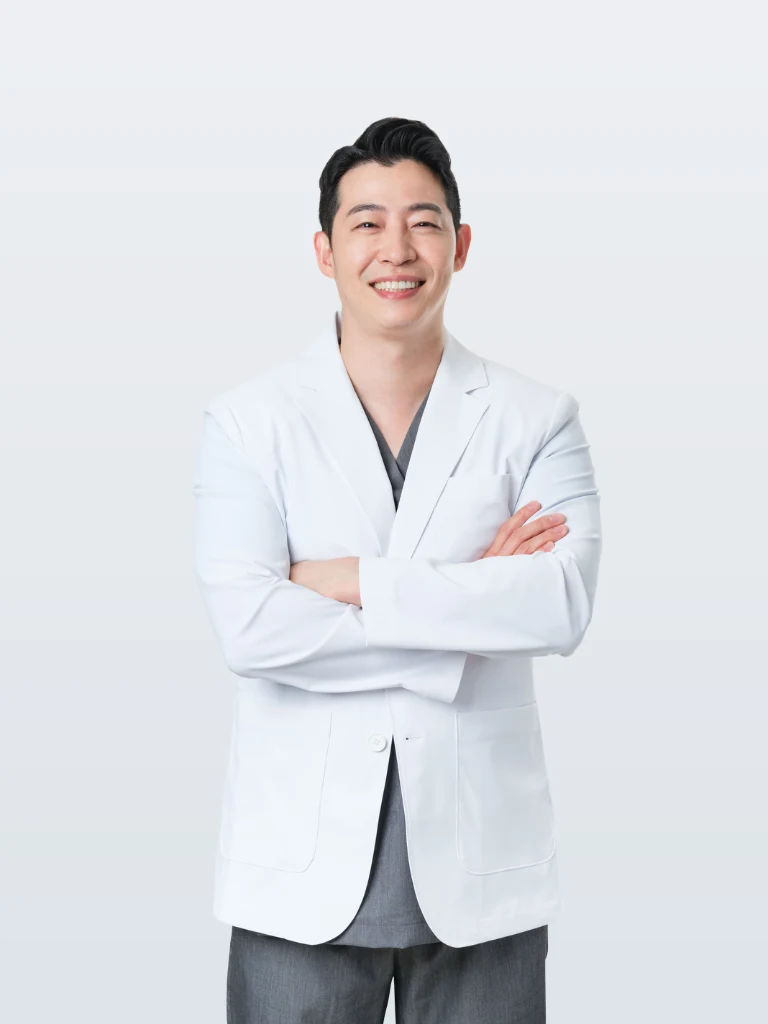
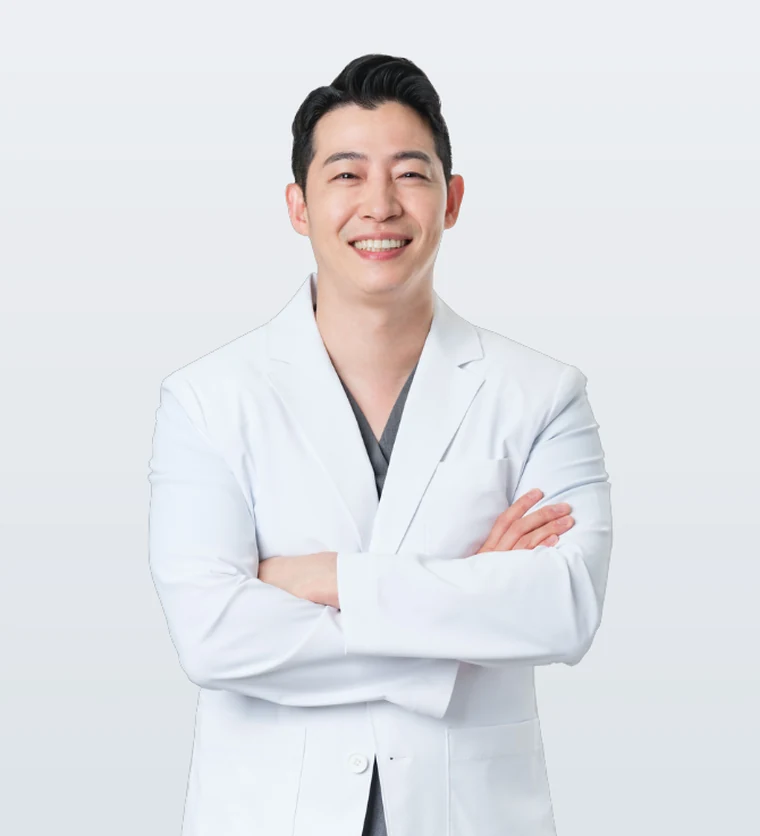
fix(doctors): 권민수 프로필 상반신 크롭으로 3인 사진 스케일 통일(aspect 4/4.4 매칭), 캐시 v=20260621q

Changed region(s): [[0.2724, 0.0622, 0.8171, 1.0], [0.575, 0.4354, 0.6053, 0.4665], [0.3026, 0.5909, 0.3329, 0.622]]

diff --git a/src/components/layout.ts b/src/components/layout.ts
@@ -288,7 +288,7 @@ export function Footer() {
   </div>
 
   <div class="toast" id="toast"></div>
-  <script src="/static/app.js?v=20260621p"></script>
+  <script src="/static/app.js?v=20260621q"></script>
   `
 }
 
@@ -357,7 +357,7 @@ export function headTags(meta: Meta) {
     <link rel="preconnect" href="https://fonts.gstatic.com" crossorigin />
     ${meta.preloadImage ? raw(`<link rel="preload" as="image" href="${meta.preloadImage}" fetchpriority="high" />`) : ''}
     <!-- 본문 CSS는 렌더 차단 없이 우선 적용 -->
-    <link rel="stylesheet" href="/static/style.css?v=20260621p" />
+    <link rel="stylesheet" href="/static/style.css?v=20260621q" />
     <!-- 한글 동적 서브셋(Pretendard): 실제 사용 글자만 로드 → 4MB→수십KB -->
     <link rel="stylesheet" as="style" crossorigin href="https://cdn.jsdelivr.net/gh/orioncactus/pretendard@v1.3.9/dist/web/variable/pretendardvariable-dynamic-subset.min.css" />
     <!-- 디스플레이/명조/모노: display=swap 으로 FOIT 방지 -->
